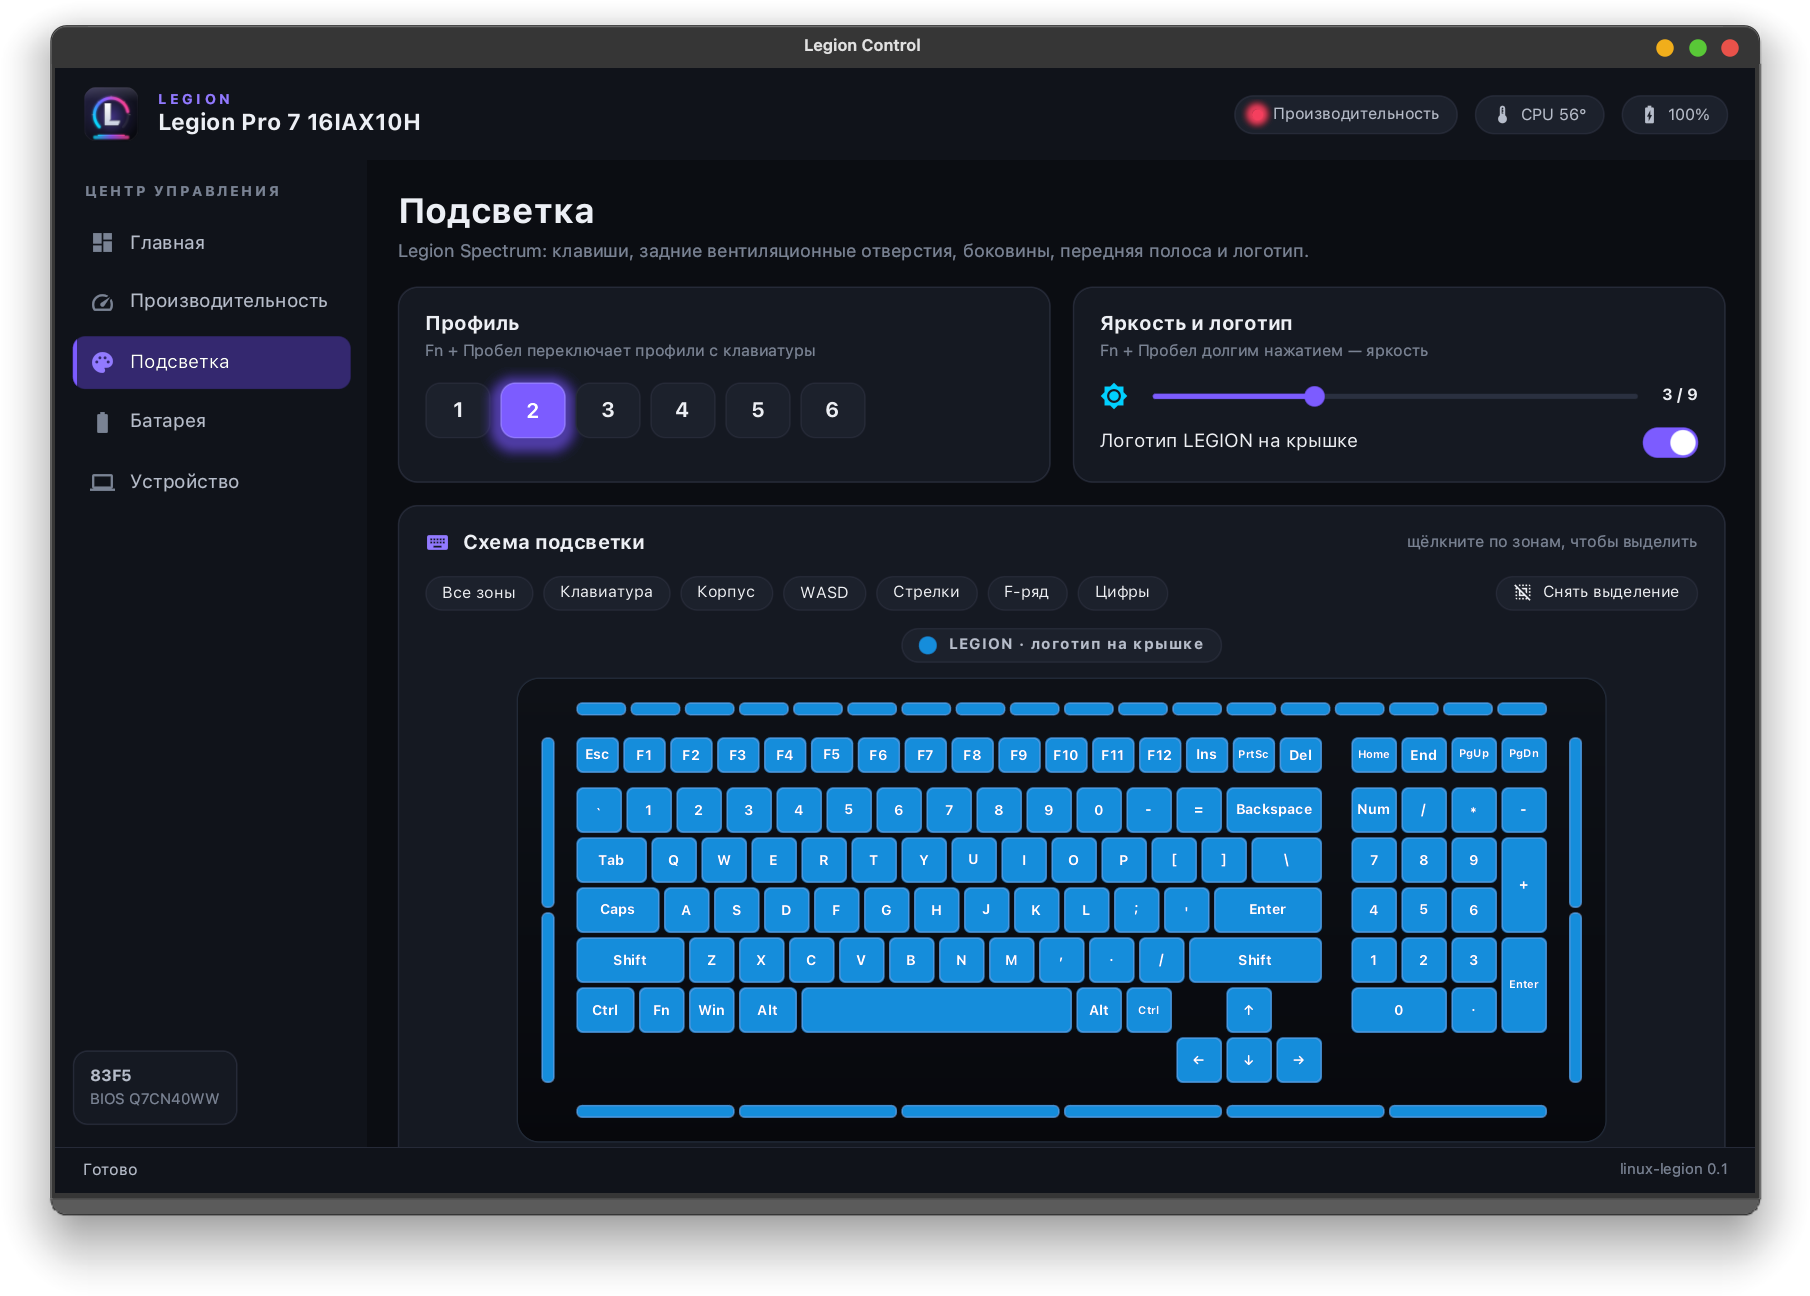
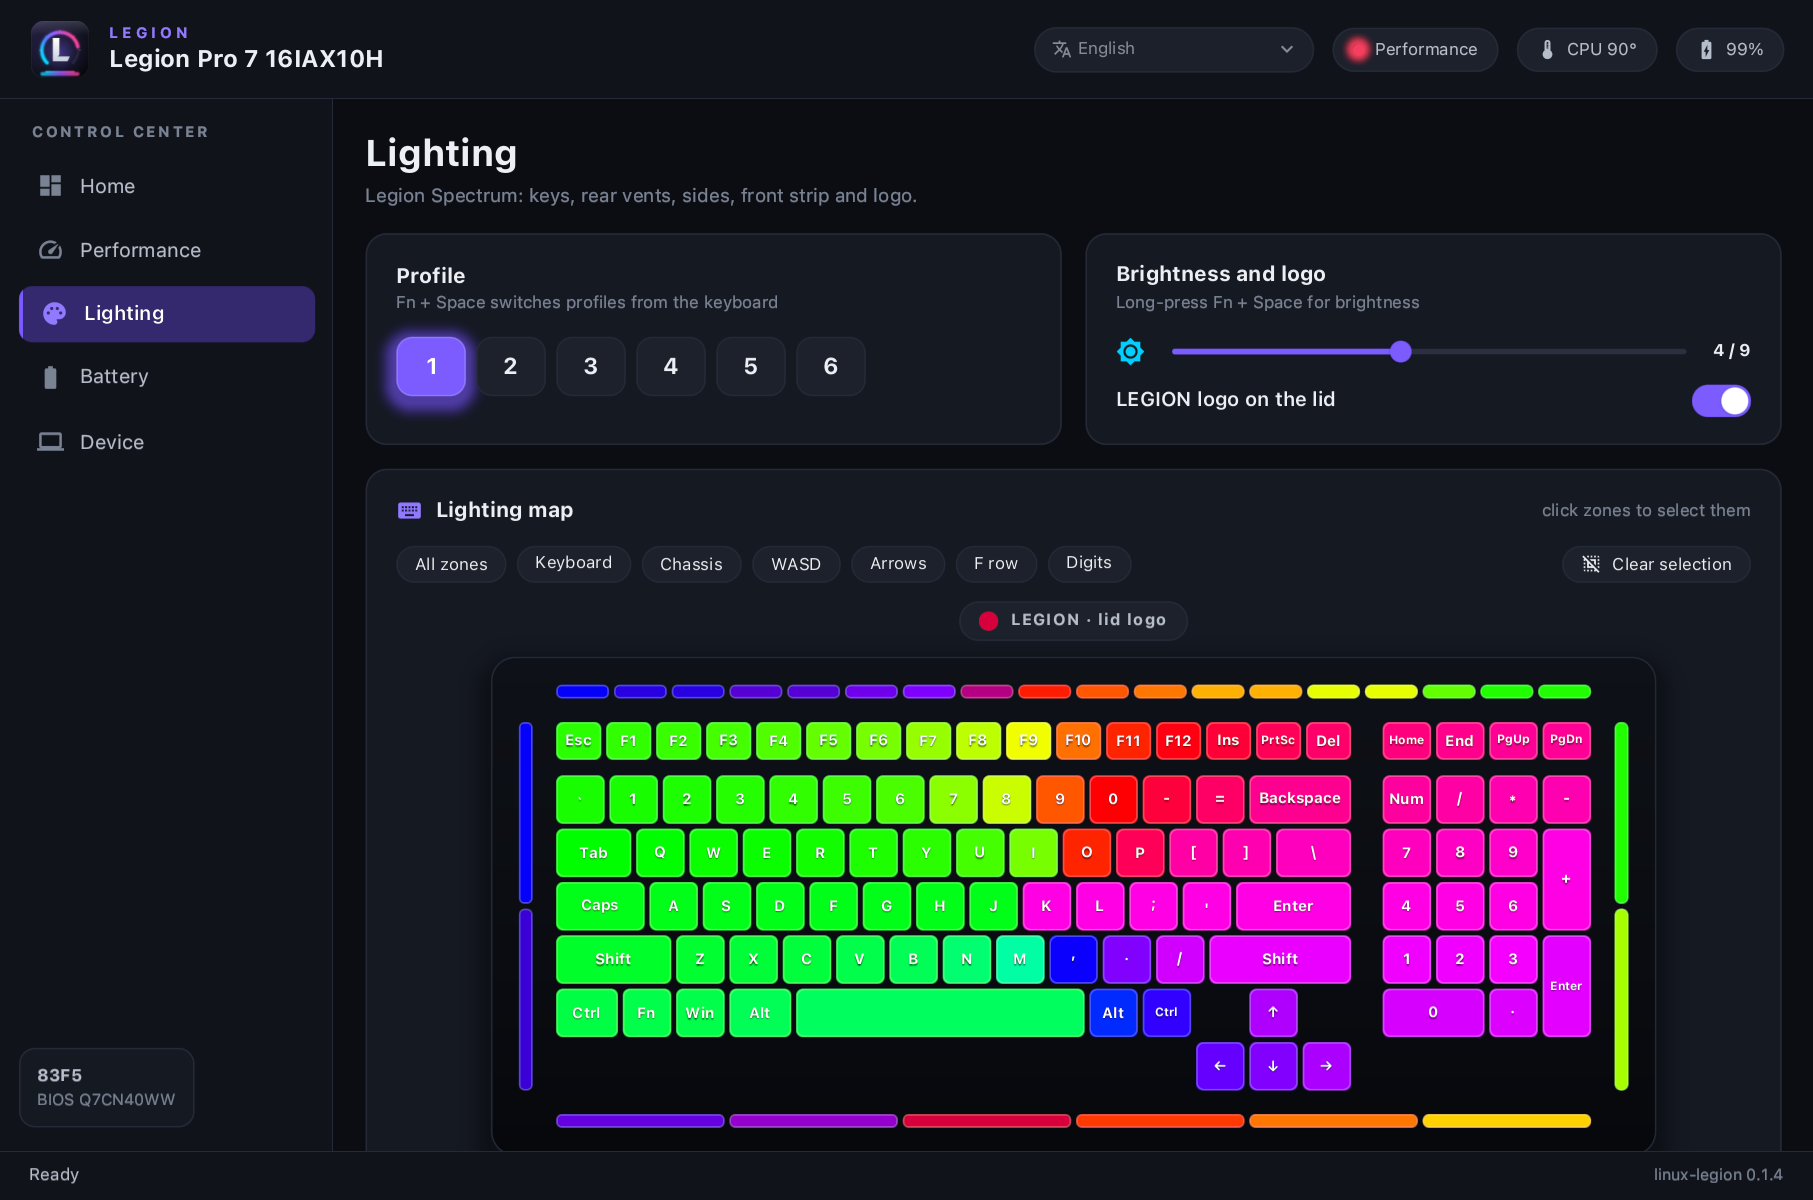
linux-legion 0.1.4: интерфейс на 14 языках (выбор в шапке, на лету); скриншоты на английском с реального ноутбука и GIF живой карты подсветки; --screenshot: --scale, --size, --scroll-to, серия кадров --frames/--interval

diff --git a/src/main.rs b/src/main.rs
@@ -5,6 +5,8 @@
 //! `linux_legion --simulate`   — демо-режим без железа;
 //! `linux_legion --page N`     — открыть раздел N (0 главная … 4 устройство);
 //! `linux_legion --screenshot F` — снимок окна в PNG без показа окна;
+//!   `--scale 1.33`, `--size 1360x1000`, `--scroll-to lighting-layers`, серия кадров —
+//!   `--frames 60 --interval 80` и `{n}` в имени файла (номер кадра);
 //! `LEGION_LANG=en`             — язык интерфейса (главнее выбора в шапке);
 //! `linux_legion --apply`      — применить сохранённые значения режима «Свой»;
 //! `linux_legion --daemon`     — служба автоприменения (см. `autoapply`);
@@ -30,6 +32,7 @@ const ICON: &[u8] = include_bytes!("../assets/icon/linux-legion-256.png");
 fn main() {
     let args: Vec<String> = std::env::args().collect();
     let simulate = args.iter().any(|a| a == "--simulate");
+    let arg = |name: &str| args.iter().position(|a| a == name).and_then(|i| args.get(i + 1)).cloned();
     if simulate {
         let root = hw::sim::install();
         autoapply::set_dir(root.join("config"));
@@ -54,13 +57,39 @@ fn main() {
     if let Some(n) = args.iter().position(|a| a == "--page").and_then(|i| args.get(i + 1)?.parse().ok()) {
         ctx.go(n);
     }
-    if let Some(out) = args.iter().position(|a| a == "--screenshot").and_then(|i| args.get(i + 1)) {
-        let opts = syngui::shot::ShotOptions { wait: std::time::Duration::from_millis(2500), ..Default::default() };
+    if let Some(out) = arg("--screenshot") {
+        let num = |name: &str, default: f64| arg(name).and_then(|v| v.parse().ok()).unwrap_or(default);
+        let scale = num("--scale", 1.0);
+        let size = arg("--size")
+            .and_then(|s| {
+                let (w, h) = s.split_once('x')?;
+                Some((w.parse().ok()?, h.parse().ok()?))
+            })
+            .unwrap_or((1360, 900));
+        // Прокрутка к именованному участку: запрос — когда страница уже разложена.
+        let scroll_to = arg("--scroll-to");
+        let calls = std::cell::Cell::new(0u32);
+        let ready = move || {
+            calls.set(calls.get() + 1);
+            if calls.get() == 4 {
+                if let Some(name) = &scroll_to {
+                    syngui::widgets::scroll_to_named(name.clone());
+                }
+            }
+            calls.get() >= 8
+        };
+        let opts = syngui::shot::ShotOptions {
+            wait: std::time::Duration::from_millis(2500),
+            ready: Some(Box::new(ready)),
+            frames: num("--frames", 1.0) as u32,
+            interval: std::time::Duration::from_millis(num("--interval", 100.0) as u64),
+            ..Default::default()
+        };
         let build = move || -> Box<dyn Widget> {
             ctx.start();
             Box::new(build_root(ctx.clone()))
         };
-        if let Err(e) = syngui::shot::render_png_with(build, STYLES, (1360, 900), 1.0, out, opts) {
+        if let Err(e) = syngui::shot::render_png_with(build, STYLES, size, scale, &out, opts) {
             eprintln!("{e}");
             std::process::exit(1);
         }

diff --git a/src/ui/pages/lighting.rs b/src/ui/pages/lighting.rs
@@ -106,13 +106,15 @@ fn editor(ctx: AppCtx) -> impl Widget {
                 .child(DecoratedBox::new().child(card(t!("Яркость и логотип"), t!("Fn + Пробел долгим нажатием — яркость"), brightness(ctx.clone()))).class("grow")),
         )
         .child(scheme_card(ctx.clone()))
-        .child(
+        // Имя — для `--scroll-to lighting-layers` (снимки для README).
+        .child(syngui::widgets::Named::new(
+            "lighting-layers",
             Row::new()
                 .gap(18.0)
                 .cross_axis_alignment(CrossAxisAlignment::Start)
                 .child(DecoratedBox::new().child(layers_card(ctx.clone())).class("layers-col"))
                 .child(DecoratedBox::new().child(layer_editor(ctx.clone())).class("grow")),
-        )
+        ))
         .child(save_bar(ctx))
 }
 

diff --git a/README.md b/README.md
@@ -15,6 +15,9 @@ service keeps the CPU power limits and fans in line with the selected mode).
 
 ![Home](screenshots/home.png)
 
+<p align="center"><img src="screenshots/lighting.gif" width="900" alt="Live Spectrum lighting map"><br>
+<sub>The lighting map is a live frame read back from the keyboard controller (here: rainbow wave + rainbow spiral)</sub></p>
+
 | Spectrum lighting — live map | Effect layers |
 |---|---|
 | ![Lighting](screenshots/lighting.png) | ![Layers](screenshots/lighting-layers.png) |
@@ -23,7 +26,8 @@ service keeps the CPU power limits and fans in line with the selected mode).
 |---|---|---|
 | ![Performance](screenshots/performance.png) | ![Battery](screenshots/battery.png) | ![Device](screenshots/device.png) |
 
-> The interface is in Russian for now.
+The interface speaks 14 languages and follows the system language; switch it live from the header.
+Screenshots are taken on a real Legion Pro 7 16IAX10H with `linux_legion --screenshot` (see [Usage](#usage)).
 
 ## What it does
 
@@ -96,6 +100,8 @@ linux_legion --daemon        # the auto-apply service (linux-legion-autoapply.se
 linux_legion --simulate      # demo mode with a simulated Legion Pro 7
 linux_legion --page 2        # open a page (0 home … 4 device)
 linux_legion --screenshot out.png  # render the window to a PNG without showing it
+#   --scale 1.33  --size 1360x1000  --scroll-to lighting-layers
+#   --frames 60 --interval 100 --screenshot 'f{n}.png'   # frame series (the GIF above)
 LEGION_LANG=de linux_legion  # interface language (overrides the choice in the header)
 LEGION_TRACE=1 linux_legion  # print every RGB packet to stderr
 ```
